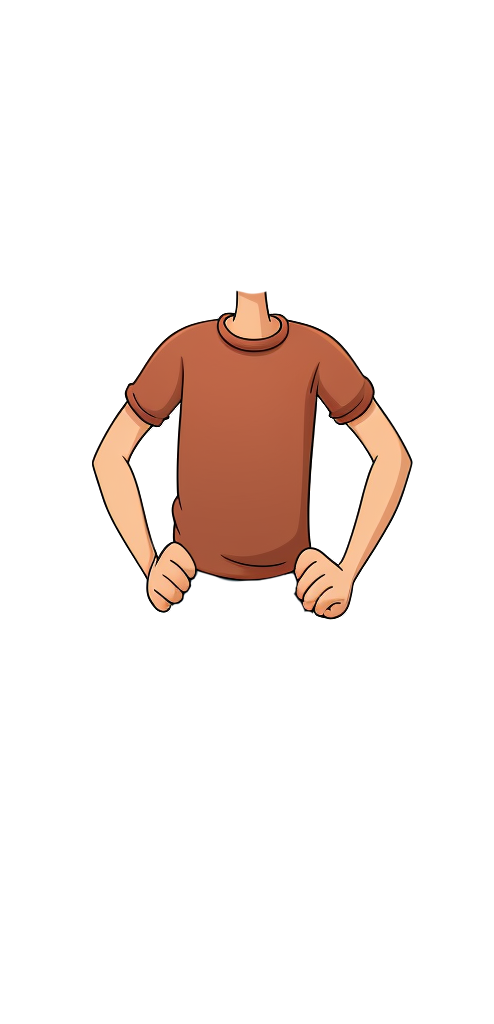
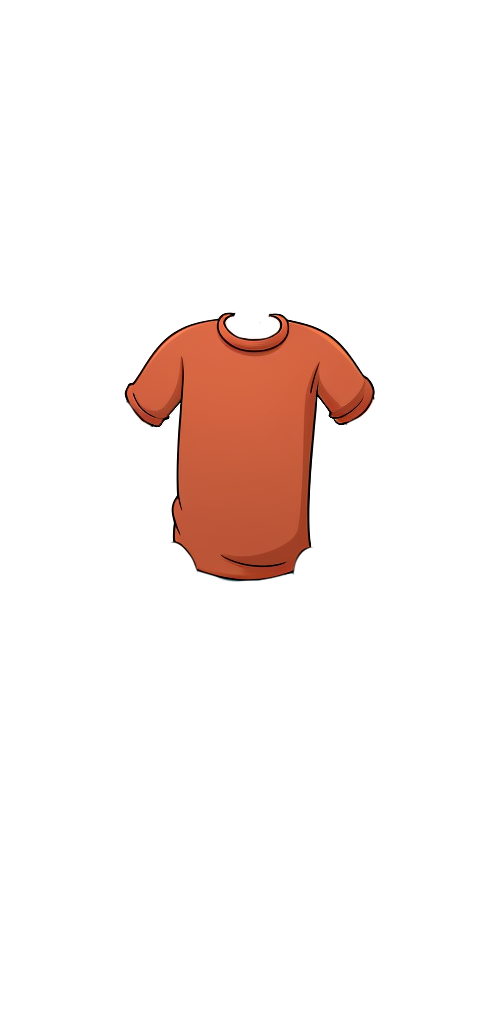
igang med save system

Changed region(s): [[0.1822, 0.2812, 0.7287, 0.5938], [0.5769, 0.375, 0.8502, 0.625]]

diff --git a/index.html b/index.html
@@ -37,17 +37,9 @@
                     </div>
 
                     
-                    <div id="shirt-r-container" class="control-slider-containers">
+                    <div id="shirt-hue-container" class="control-slider-containers">
                         <div class="slider-color-labels slider-color-label-r"></div>
-                        <input class="control-sliders" id="shirt-r" type="range" min="0" max="255" value="128"></input>
-                    </div>
-                    <div id="shirt-g-container" class="control-slider-containers">
-                        <div class="slider-color-labels slider-color-label-g"></div>
-                        <input class="control-sliders" id="shirt-g" type="range" min="0" max="255" value="128"></input>
-                    </div>
-                    <div id="shirt-b-container" class="control-slider-containers">
-                        <div class="slider-color-labels slider-color-label-b"></div>
-                        <input class="control-sliders" id="shirt-b" type="range" min="0" max="255" value="128"></input>
+                        <input class="control-sliders" id="shirt-color-hue" type="range" min="-180" max="180" value="0"></input>
                     </div>
 
 
@@ -66,19 +58,11 @@
                     <div onclick="chooseClothing(3,'pants')" id="pants-button3" class="control-buttons">
                     </div>
 
-                    <div id="pants-r-container" class="control-slider-containers">
+                    <div id="pants-hue-container" class="control-slider-containers">
                         <div class="slider-color-labels slider-color-label-r"></div>
-                        <input class="control-sliders" id="pants-r" type="range" min="0" max="255" value="128"></input>
+                        <input class="control-sliders" id="pants-color-hue" type="range" min="-180" max="180" value="0"></input>
                     </div>
-                    <div id="pants-g-container" class="control-slider-containers">
-                        <div class="slider-color-labels slider-color-label-g"></div>
-                        <input class="control-sliders" id="pants-g" type="range" min="0" max="255" value="128"></input>
-                    </div>
-                    <div id="pants-b-container" class="control-slider-containers">
-                        <div class="slider-color-labels slider-color-label-b"></div>
-                        <input class="control-sliders" id="pants-b" type="range" min="0" max="255" value="128"></input>
-                    </div>
-
+                    
                 </div>
             </div>
             
@@ -87,12 +71,23 @@
                 <div id="doll-container">
                     <img id="doll-shirt" class="doll-image doll-clothing" src="assets/clothing-shirt-01.png">
                     <img id="doll-pants" class="doll-image doll-clothing" src="assets/clothing-pants-01.png">
-                    <img class="doll-image" src="assets/doll-no-clothes.png" alt="">
+                    <img id="doll-arms" class="doll-image doll-clothing" src="assets/doll-arms.png" alt="">
+                    <img id="doll-bottom" class="doll-image" src="assets/doll-no-clothes.png" alt="">
                 </div>
                 <button id="start-button" onclick="startGame()">Start</button>
             </div>
                 
             <div class="game-container control-container flex3">
+                <div id="saved-outfit-list" class="control-container-grid">
+                    <div id="saved-label" class="control-buttons-label">
+                        <h3>Gemte outfits</h3>
+                    </div>
+
+                    
+
+
+                    <button onclick="saveCurrentOutfit()" id="save-outfit-button">Gem nuværende outfit</button>
+                </div>
             </div>
         
         

diff --git a/script.js b/script.js
@@ -1,11 +1,46 @@
 
+let testOutfit = {currentShirt: 1, shirtColorHue: 50, currentPants:1, pantsColorHue:-40}
+
+
+let savedOutfits = [];
+let currentOutfit = {currentShirt:0, shirtColorHue:0, currentPants:0, pantsColorHue:0};
+
+
+function renderClothing(){
+    //Pålæg currentOutfit på dukken
+    shirtEl = document.getElementById('doll-shirt');
+    pantsEl = document.getElementById('doll-pants');
+
+    shirtEl.src = "assets/clothing-shirt-0" + currentOutfit.currentShirt + ".png";
+    pantsEl.src = "assets/clothing-pants-0" + currentOutfit.currentPants + ".png";
+
+    //Fjern censur hvis der er bukser på
+    if(currentOutfit.currentPants == [1]){
+        document.getElementById('doll-bottom').src = "assets/doll-no-clothes-bottom.png"
+    } else{
+        document.getElementById('doll-bottom').src = "assets/doll-no-clothes.png"
+    };
+
+    if(currentOutfit.currentShirt == [1]){
+        document.getElementById('doll-arms').style.display = "block";
+    } else{
+        document.getElementById('doll-arms').style.display = "none";
+    };
+
+
+    //Påfør farvevalg
+        shirtEl.style.filter = "hue-rotate(" + currentOutfit.shirtColorHue + "deg)";
+        pantsEl.style.filter = "hue-rotate(" + currentOutfit.pantsColorHue + "deg)";
+
+}
+renderClothing();
+
 
 
 
 
 function startGame(){
     controlContainers = document.getElementsByClassName('control-container');
-    console.log(controlContainers);
     controlContainers[0].style.display = "flex";
     controlContainers[1].style.display = "flex";
     startButton = document.getElementById('start-button');
@@ -17,9 +52,9 @@ function startGame(){
 
 
 
-
-
 function chooseClothing(choice, type){
+    
+
      //Highlight valgte knap og unhighlight den gamle
     for(var i=1; i<4; i++){
         if(choice==i){
@@ -32,4 +67,72 @@ function chooseClothing(choice, type){
             unchosenButton.style.backgroundColor = "#EEEEEE";
         }
     }
+
+    //Opdatér objectet currentOutfit
+    if(type=="shirt"){
+        currentOutfit.currentShirt = choice;
+    }
+    if(type=="pants"){
+        currentOutfit.currentPants = choice;
+    }
+
+
+    renderClothing();
 }
+
+
+
+
+
+shirtColorSlider = document.getElementById('shirt-color-hue');
+pantsColorSlider = document.getElementById('pants-color-hue');
+
+
+function updateColor(){
+    currentOutfit.shirtColorHue = shirtColorSlider.value;
+    currentOutfit.pantsColorHue = pantsColorSlider.value;
+    renderClothing();
+}
+
+shirtColorSlider.addEventListener("input", updateColor);
+pantsColorSlider.addEventListener("input", updateColor);
+
+
+
+
+function saveCurrentOutfit(){
+savedOutfits.push({...currentOutfit});
+console.log(savedOutfits);
+loadSavedOutfits();
+}
+
+
+savedOutfitListEl = document.getElementById('saved-outfit-list');
+
+function loadSavedOutfits(){
+    for(i=0;i<savedOutfits.length;i++){
+        savedOutfitListEl.createElement('div');
+
+
+
+
+
+
+    // console.log(savedOutfits[i])
+    }
+}
+
+loadSavedOutfits();
+
+
+
+/* <div onclick="#" id="1" class="saved-outfit-button">
+                        <div class="thumbnail-doll-containers">
+                            <img id="thumnail-doll-shirt1" class="thumbnail-doll-clothing" src="assets/clothing-shirt-01.png">
+                            <img id="thumbnail-doll-pants1" class="thumbnail-doll-clothing" src="assets/clothing-pants-01.png">
+                            <img id="thumbnail-doll-arms1" class="thumbnail-doll-clothing" src="assets/doll-arms.png" alt="">
+                            <img id="thumbnail-doll-bottom1" class="doll-image" src="assets/doll-no-clothes.png" alt="">
+                        </div>
+                        <p class="saved-outfit-label">Outfit 1</p>
+                        <button id="delete-outfit-button1" class="delete-button">-</button>
+                    </div> */

diff --git a/style.css b/style.css
@@ -18,6 +18,14 @@ body{
 #doll-container{
     width: 340px;
 }
+.thumbnail-doll-containers{
+    width: 40px;
+}
+.thumbnail-doll-clothing{
+    display: block;
+    max-width: 40px;
+    position: absolute;
+}
 .doll-image{
     display: block;
     max-width: 100%;
@@ -27,11 +35,13 @@ body{
     max-width: 340px;
     position: absolute;
 }
-
+#doll-arms{
+    dislay:none;
+}
 
 #start-button{
     position: absolute;
-    bottom: 280px;
+    top: 500px;
     font-size: 2em;
     font-family: "anonymous-pro", monospace;
     font-weight: 100;
@@ -42,7 +52,7 @@ body{
     box-shadow: 0px 0px 3px black;
     cursor: pointer;
 }
-#start-button:hover{
+#start-button:hover, #save-outfit-button:hover{
     background-color: #178c29;
     transition: background-color 0.2s;
 }
@@ -75,12 +85,47 @@ body{
     width: 100%;
 }
 
-
-
-.control-buttons:hover{
+.control-buttons:hover, .saved-outfit-button:hover{
     background-color: #BBBBBB;
     transition: 0.2s;
 }
+
+
+.saved-outfit-button{
+    grid-column: 1/4;
+    box-sizing: border-box;
+    border: white solid 4px;
+    background-color: #EEEEEE;
+    width: 100%;
+    height: 100px;
+    cursor: pointer;
+    border-radius: 20px;
+    display: flex;
+    align-items: center;
+    justify-content: space-around;
+}
+
+.delete-button{
+font-family: "anonymous-pro", monospace;
+font-weight: 100;
+border-radius: 20%;
+background-color: darkred;
+color: white;
+box-shadow: 0px 0px 3px black;
+cursor: pointer;
+}
+
+#save-outfit-button{
+    font-family: "anonymous-pro", monospace;
+    font-weight: 100;
+    padding: 2px;
+    border-radius: 20%;
+    background-color: #21c339;
+    color: white;
+    box-shadow: 0px 0px 3px black;
+    cursor: pointer;
+}
+
 
 #shirt-label{grid-column: 1/4; grid-row: 1}
 #shirt-button1{grid-column: 1; grid-row: 2;}
@@ -98,13 +143,9 @@ body{
     font-weight: 500;
 }
 
-#shirt-r-container{grid-column: 1/4; grid-row: 3}
-#shirt-g-container{grid-column: 1/4; grid-row: 4}
-#shirt-b-container{grid-column: 1/4; grid-row: 5}
+#shirt-hue-container{grid-column: 1/4; grid-row: 3}
+#pants-hue-container{grid-column: 1/4; grid-row: 8}
 
-#pants-r-container{grid-column: 1/4; grid-row: 8}
-#pants-g-container{grid-column: 1/4; grid-row: 9}
-#pants-b-container{grid-column: 1/4; grid-row: 10}
 
 
 .control-sliders{
@@ -122,14 +163,5 @@ body{
     height: 15px;
     vertical-align: middle;
     border-radius: 4px;
-}
-
-.slider-color-label-r{
-    background-color: red;
-}
-.slider-color-label-g{
-    background-color: lime;
-}
-.slider-color-label-b{
-    background-color: blue;
+    background: linear-gradient(90deg, rgba(255,0,0,1) 0%, rgba(255,154,0,1) 10%, rgba(208,222,33,1) 20%, rgba(79,220,74,1) 30%, rgba(63,218,216,1) 40%, rgba(47,201,226,1) 50%, rgba(28,127,238,1) 60%, rgba(95,21,242,1) 70%, rgba(186,12,248,1) 80%, rgba(251,7,217,1) 90%, rgba(255,0,0,1) 100%);;
 }
